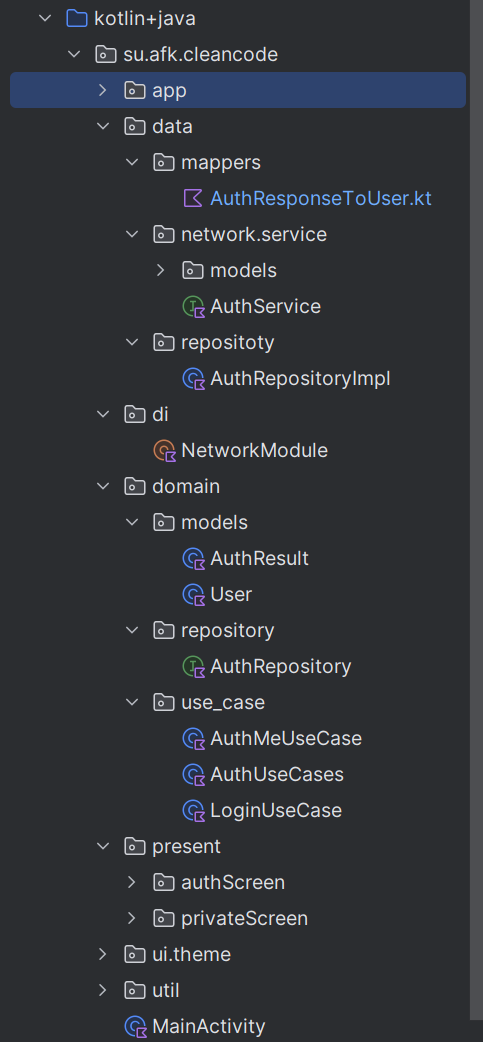
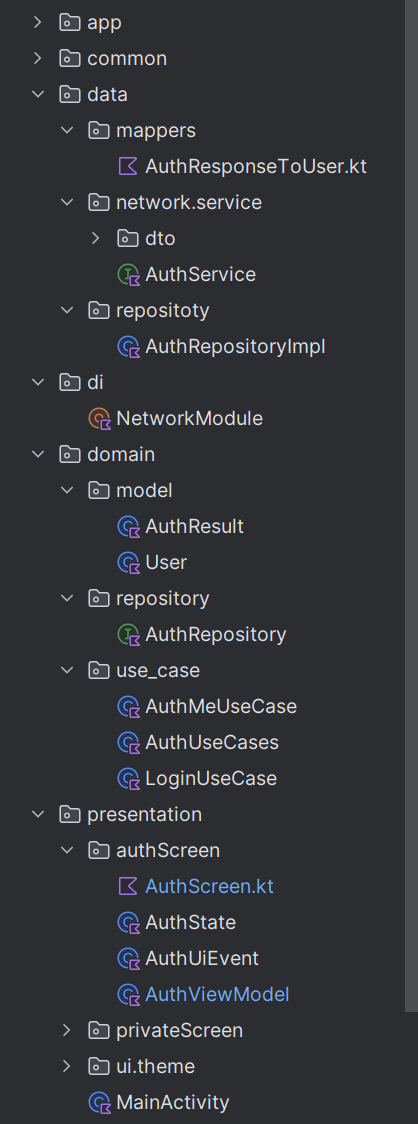
Подправил картинки

Changed region(s): [[0.0, 0.0, 0.9641, 1.0], [0.9641, 0.8906, 1.0, 0.9827]]

diff --git a/app/src/main/java/su/afk/cleancode/presentation/authScreen/AuthScreen.kt b/app/src/main/java/su/afk/cleancode/presentation/authScreen/AuthScreen.kt
@@ -29,7 +29,7 @@ import su.afk.cleancode.presentation.destinations.PrivateScreenDestination
 @Destination(start = true)
 fun AuthScreen(
     navigator: DestinationsNavigator,
-    viewModel: MainViewModel = hiltViewModel(),
+    viewModel: AuthViewModel = hiltViewModel(),
 ) {
 
     val state = viewModel.authState

diff --git a/app/src/main/java/su/afk/cleancode/presentation/authScreen/AuthViewModel.kt b/app/src/main/java/su/afk/cleancode/presentation/authScreen/AuthViewModel.kt
@@ -15,7 +15,7 @@ import su.afk.cleancode.domain.use_case.AuthUseCases
 import javax.inject.Inject
 
 @HiltViewModel
-class MainViewModel @Inject constructor(
+class AuthViewModel @Inject constructor(
     private val authUseCases: AuthUseCases
 ): ViewModel() {
 
